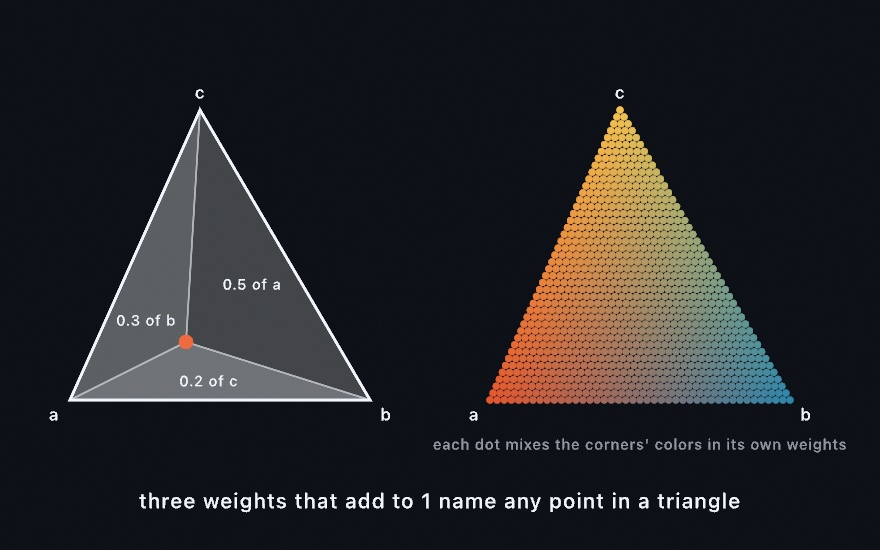
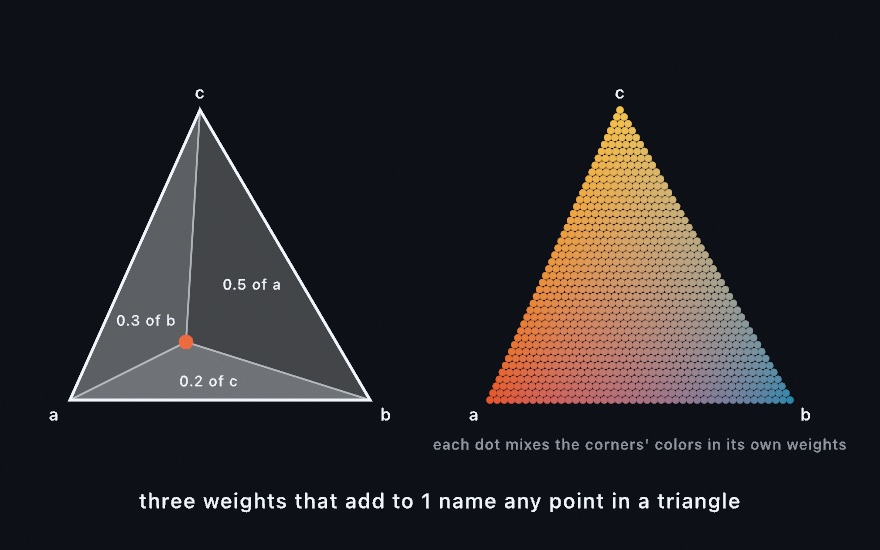
Appendix B's barycentric figure mixes its corner colors in linear light, as the linear-light entry says Ollin does. The draft added the corners' stored sRGB numbers in each dot's weights, which dulled the middle of the triangle toward olive. Each dot now weights the corners' linearRGB and takes the 
Claude-Session: https://claude.ai/code/session_01WqLtBAH3GLezrn1E1FY2W7

Changed region(s): [[0.6443, 0.3709, 0.8898, 0.7418]]

diff --git a/Guide/Figures/B-JustEnoughMath/Barycentric.swift b/Guide/Figures/B-JustEnoughMath/Barycentric.swift
@@ -5,8 +5,8 @@
 // and 0.2 of c. Lines from the point to the corners cut the triangle into
 // three smaller ones, and each weight is the share of the area opposite its
 // corner. Right, the same triangle filled with dots, each colored by mixing
-// the three corner colors in its own weights. The corner colors depict
-// content, so they stay put in the dark render.
+// the three corner colors in its own weights, in linear light as Ollin mixes.
+// The corner colors depict content, so they stay put in the dark render.
 import Ollin
 import OllinDiagram
 
@@ -83,9 +83,9 @@ final class Barycentric: Sketch {
                 let wb = Double(j) / Double(steps)
                 let wc = 1 - wa - wb
                 let spot = t.a * wa + t.b * wb + t.c * wc
-                fill(Color(red: colorA.red * wa + colorB.red * wb + colorC.red * wc,
-                           green: colorA.green * wa + colorB.green * wb + colorC.green * wc,
-                           blue: colorA.blue * wa + colorB.blue * wb + colorC.blue * wc))
+                // The weights mix light, not the stored numbers.
+                fill(Color(linear: colorA.linearRGB * wa + colorB.linearRGB * wb
+                                   + colorC.linearRGB * wc))
                 drawCircle(center: spot, radius: 3.4)
             }
         }

diff --git a/Guide/B-JustEnoughMath.md b/Guide/B-JustEnoughMath.md
@@ -139,7 +139,7 @@ A value between 0 and 1 can mean "how far along". It reads 0 at the start, 1 at 
 
 <picture>
   <source media="(prefers-color-scheme: dark)" srcset="Images/B-JustEnoughMath/Barycentric-dark.jpg">
-  <img src="Images/B-JustEnoughMath/Barycentric.jpg" alt="Two triangles with corners a, b, and c. Left, one orange point joined to the corners, which cuts the triangle into three pieces labeled 0.5 of a, 0.3 of b, and 0.2 of c, each weight in the piece opposite its corner. Right, the triangle filled with dots whose colors mix red at a, blue at b, and yellow at c in each dot's own weights" width="680">
+  <img src="Images/B-JustEnoughMath/Barycentric.jpg" alt="Two triangles with corners a, b, and c. Left, one orange point joined to the corners, which cuts the triangle into three pieces labeled 0.5 of a, 0.3 of b, and 0.2 of c, each weight in the piece opposite its corner. Right, the triangle filled with dots whose colors mix red at a, blue at b, and yellow at c in each dot's own weights. Mixed as light, the colors stay bright through the middle, a pale tan there and a dusty mauve along the edge from a to b" width="680">
 </picture>
 
 `lerp` names a point between two ends with one fraction. A point inside a triangle takes three, one for each corner, and the three add up to 1. The point is that much of each corner mixed together. A weight of 0.5 on the first corner puts the point halfway from the opposite edge to that corner. Each weight is also a share of area. Lines from the point to the corners cut the triangle into three, and a corner's weight is the share of the piece opposite it. The same weights mix anything the corners carry, such as a color or a height. [Chapter 27](27-Landscapes.md) reads them off a point scattered over a mesh, to blend what the mesh stores at its corners.
